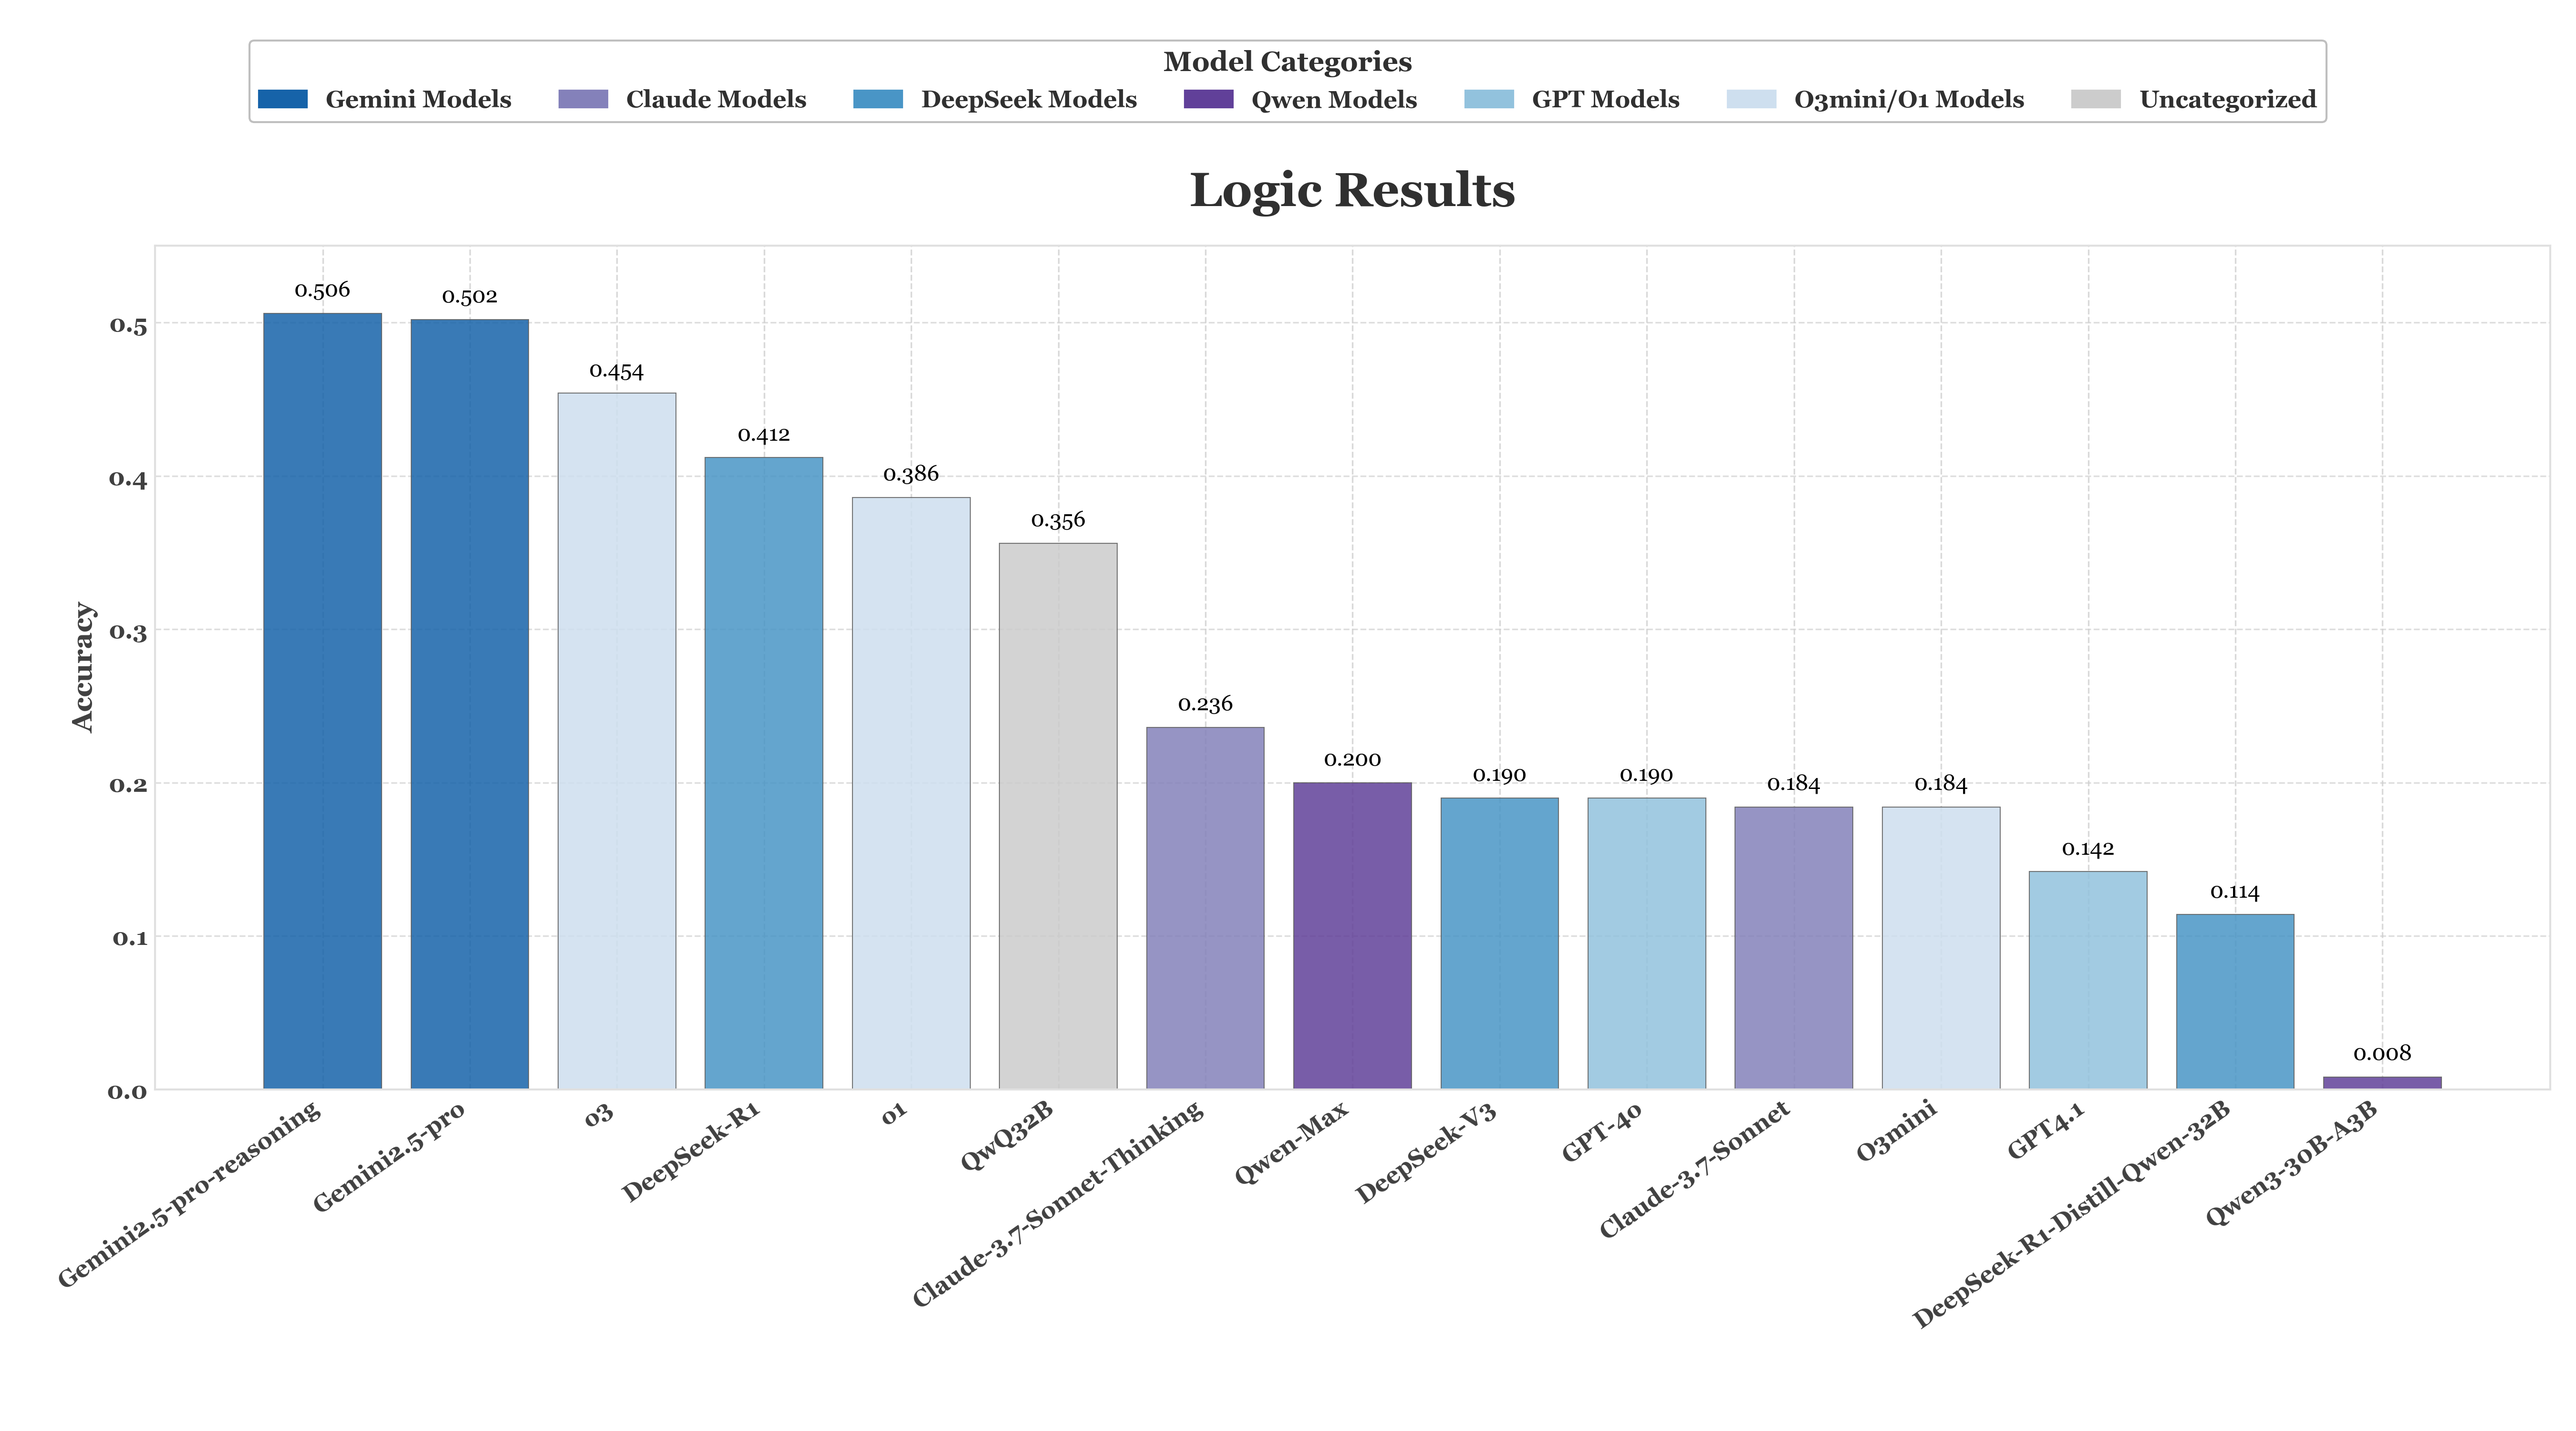
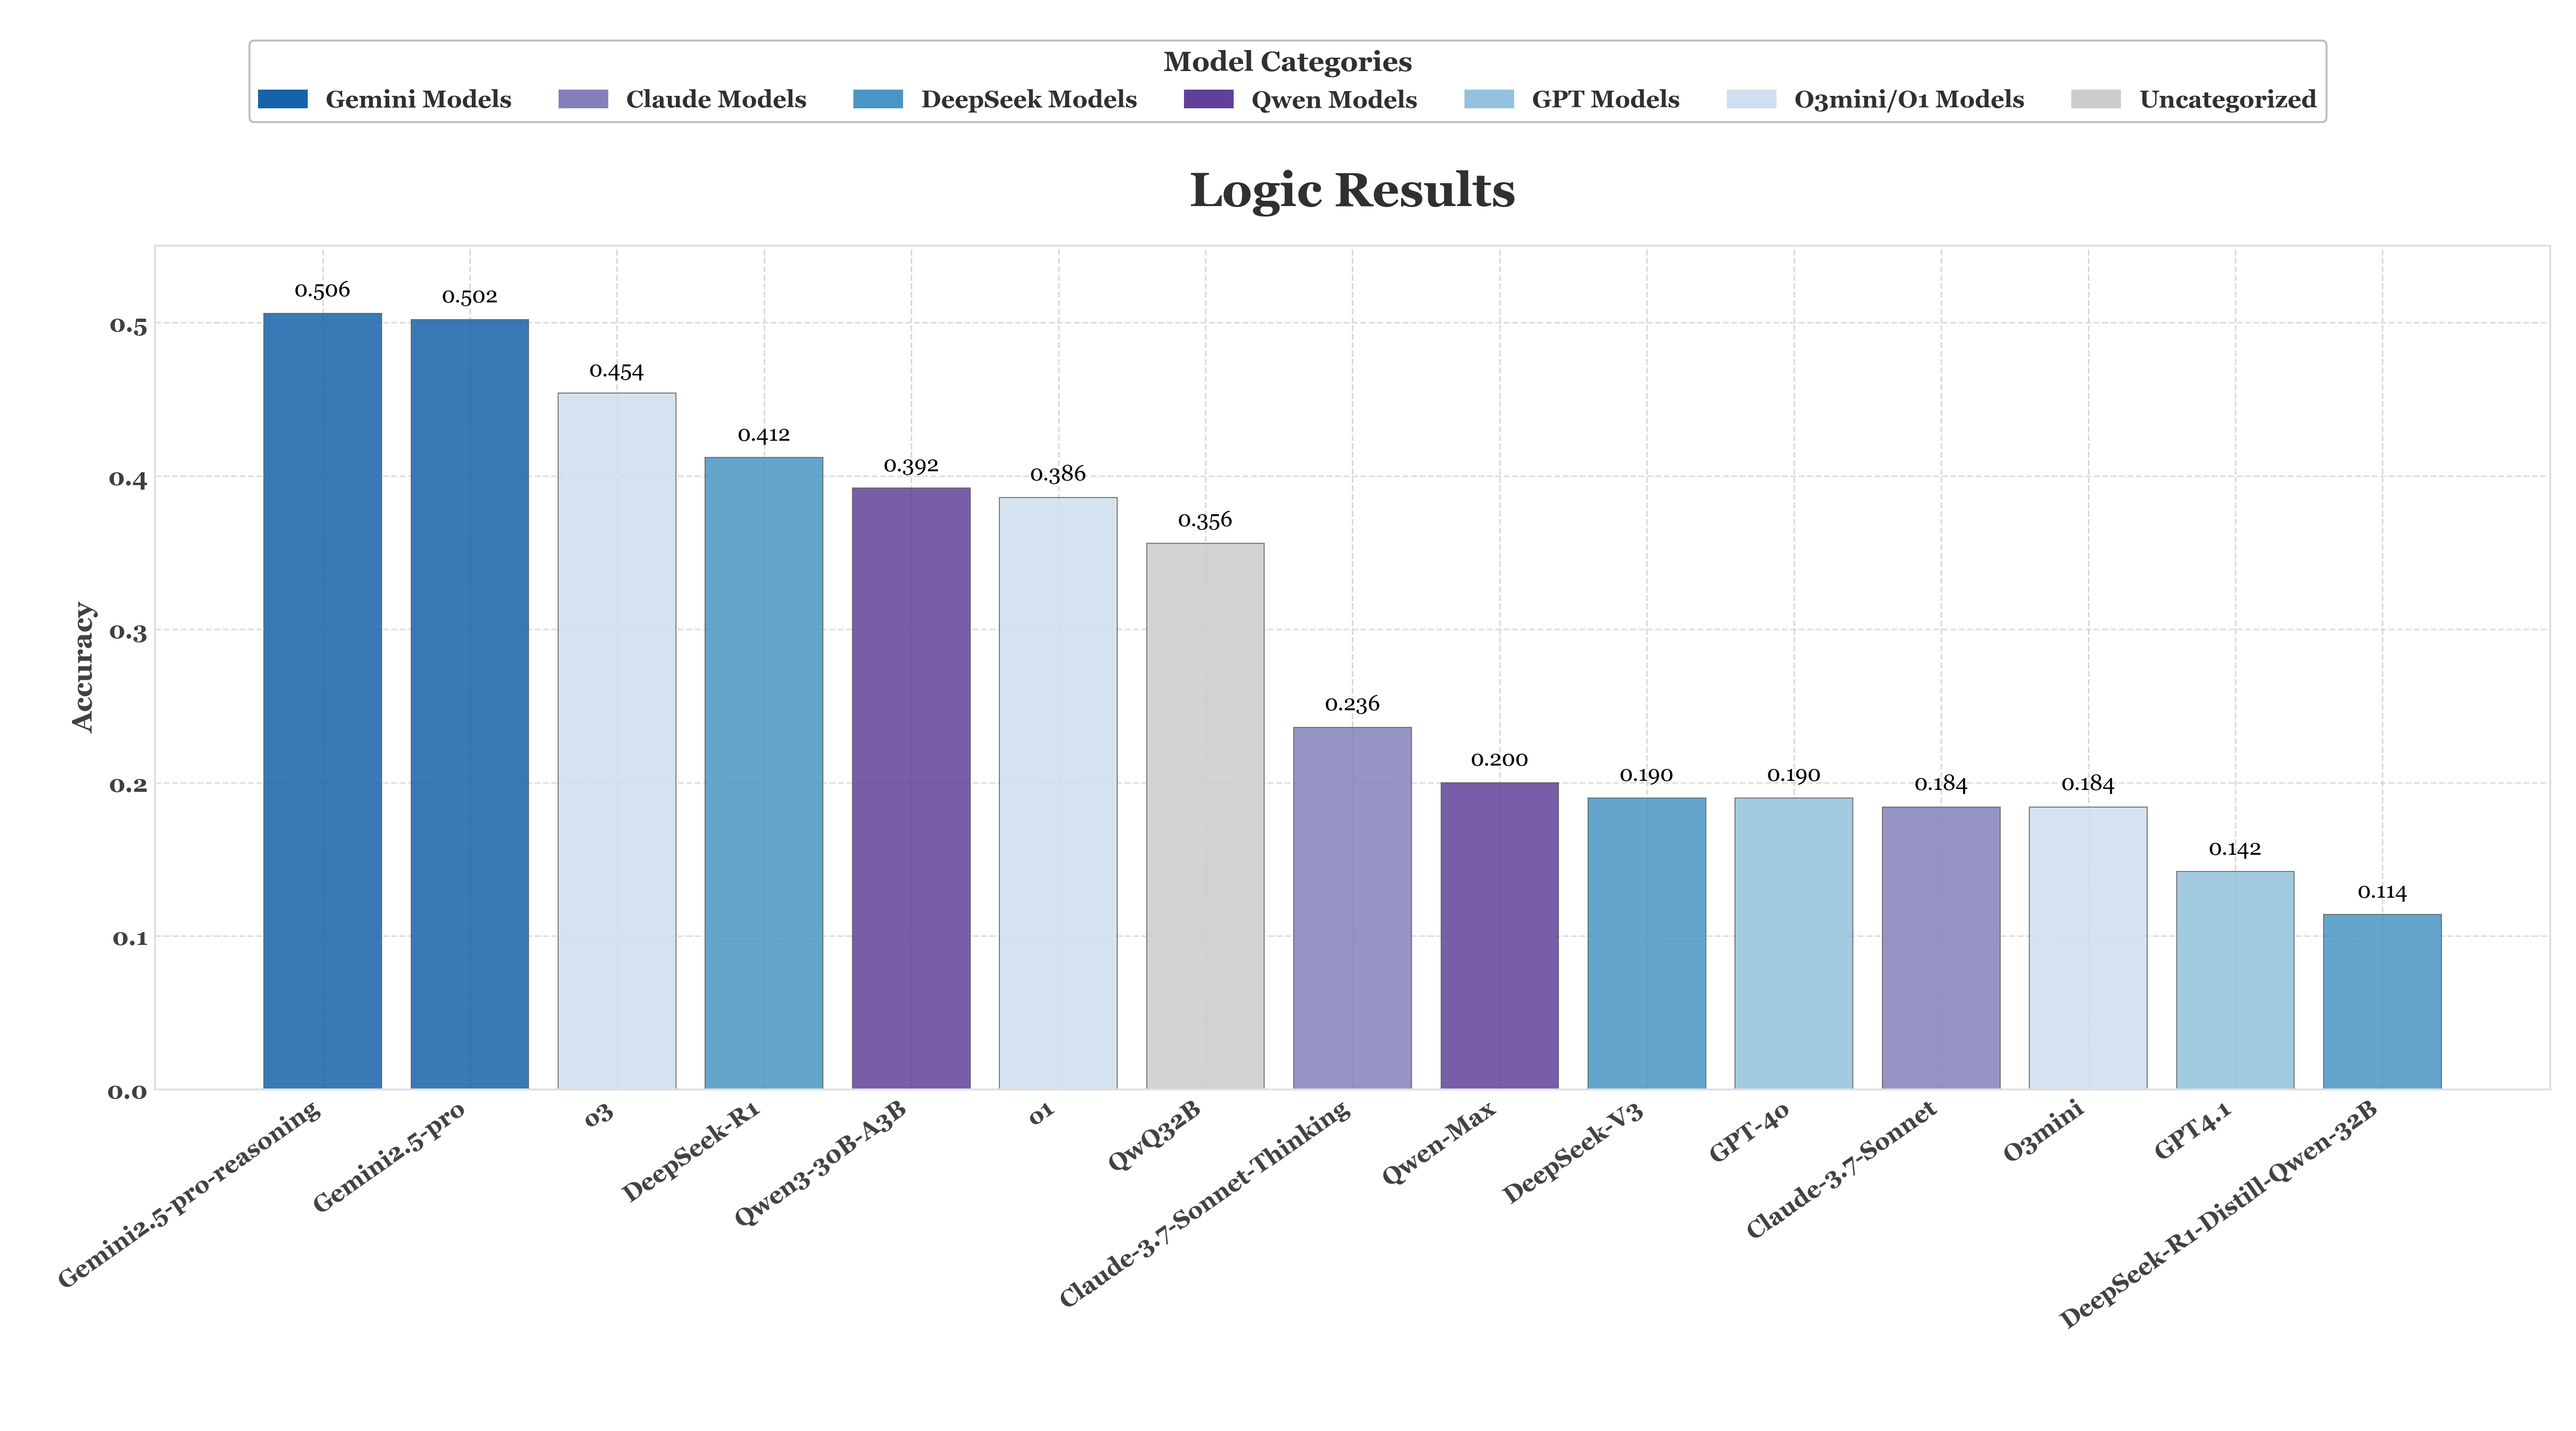
.

diff --git a/Logic/README.md b/Logic/README.md
@@ -35,6 +35,7 @@ We employ a strict, all-or-nothing scoring mechanism, where no partial credit is
 | Gemini2.5-pro                |     0.502  |
 | o3                           |     0.454  |
 | DeepSeek-R1                  |     0.412  |
+| Qwen3-30B-A3B                |     0.392  |
 | o1                           |     0.386  |
 | QwQ-32B                      |     0.356  |
 | Claude-3.7-Sonnet-Thinking   |     0.236  |
@@ -45,7 +46,6 @@ We employ a strict, all-or-nothing scoring mechanism, where no partial credit is
 | O3mini                       |     0.184  |
 | GPT4.1                       |     0.142  |
 | DeepSeek-R1-Distill-Qwen-32B |     0.114  |
-| Qwen3-30B-A3B                |     0.008  |
 
 
 * Current SOTA models still struggle with our logical challenge benchmark, failing to reliably solve these problems.

diff --git a/AUTHORS.md b/AUTHORS.md
@@ -24,7 +24,7 @@ This repository contains multiple subprojects, each maintained by different auth
 ## 🧠 Logic
 - **Contributors**:  
 
-  Yuqi Ding, Jiayi Wang, Zhengkai Yang, Yanmei Gu, YiMing Zhang, Xiaoxiao Peng, Yingfan Ma, Yuanyuan Wang, Chao Huang, Cheng Lin, Bowen Song, Junbo Zhao
+  Yuqi Ding, Jiayi Wang, Zhengkai Yang, Yanmei Gu, YiMing Zhang, Yihong Zhuang, Xiaoxiao Peng, Yingfan Ma, Yuanyuan Wang, Chao Huang, Cheng Lin, Bowen Song, Junbo Zhao
 
 - **Acknowledgments**: 
 
